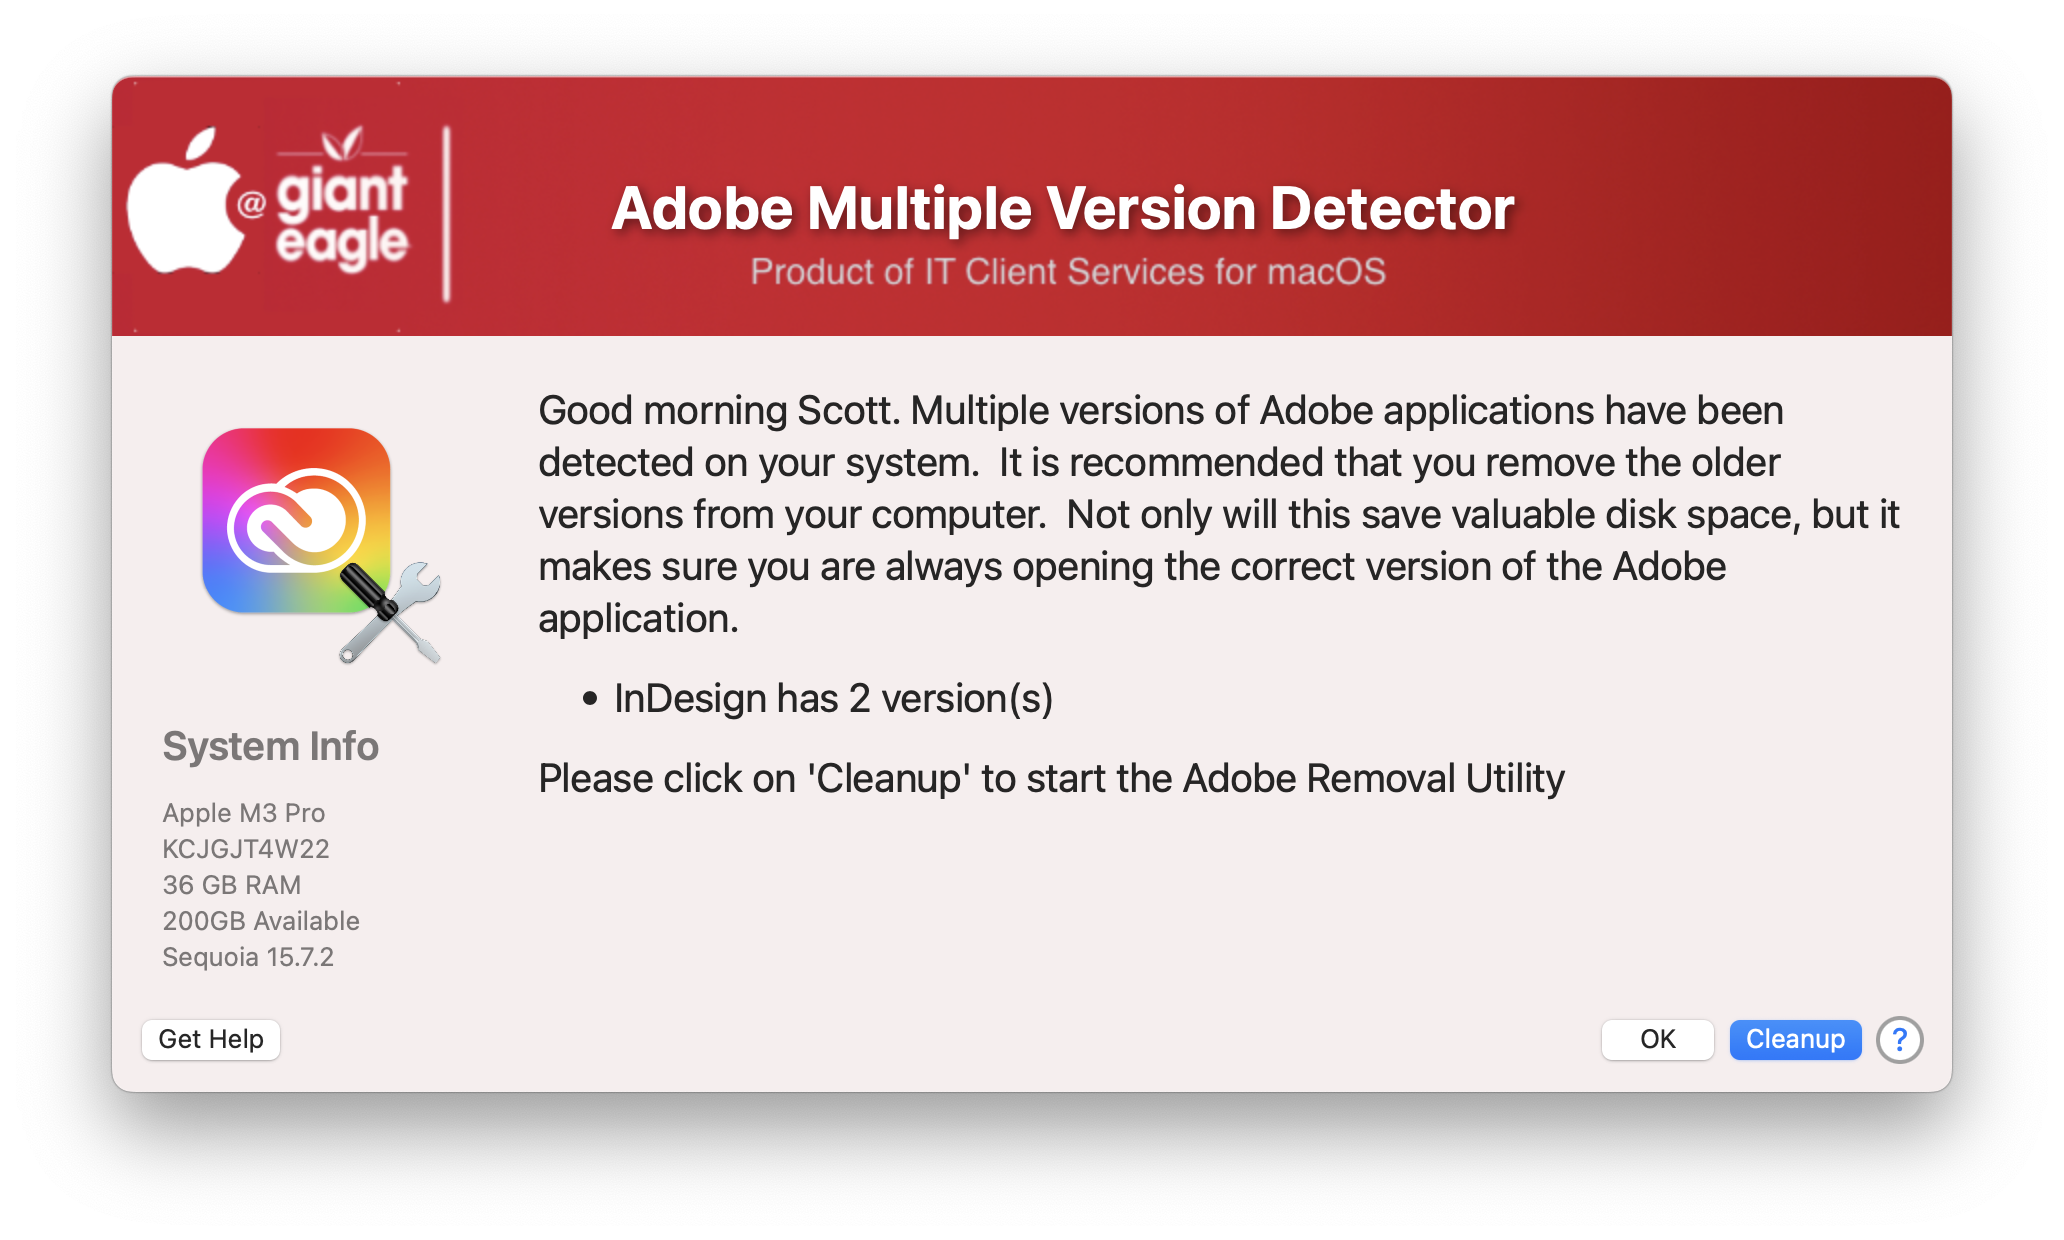
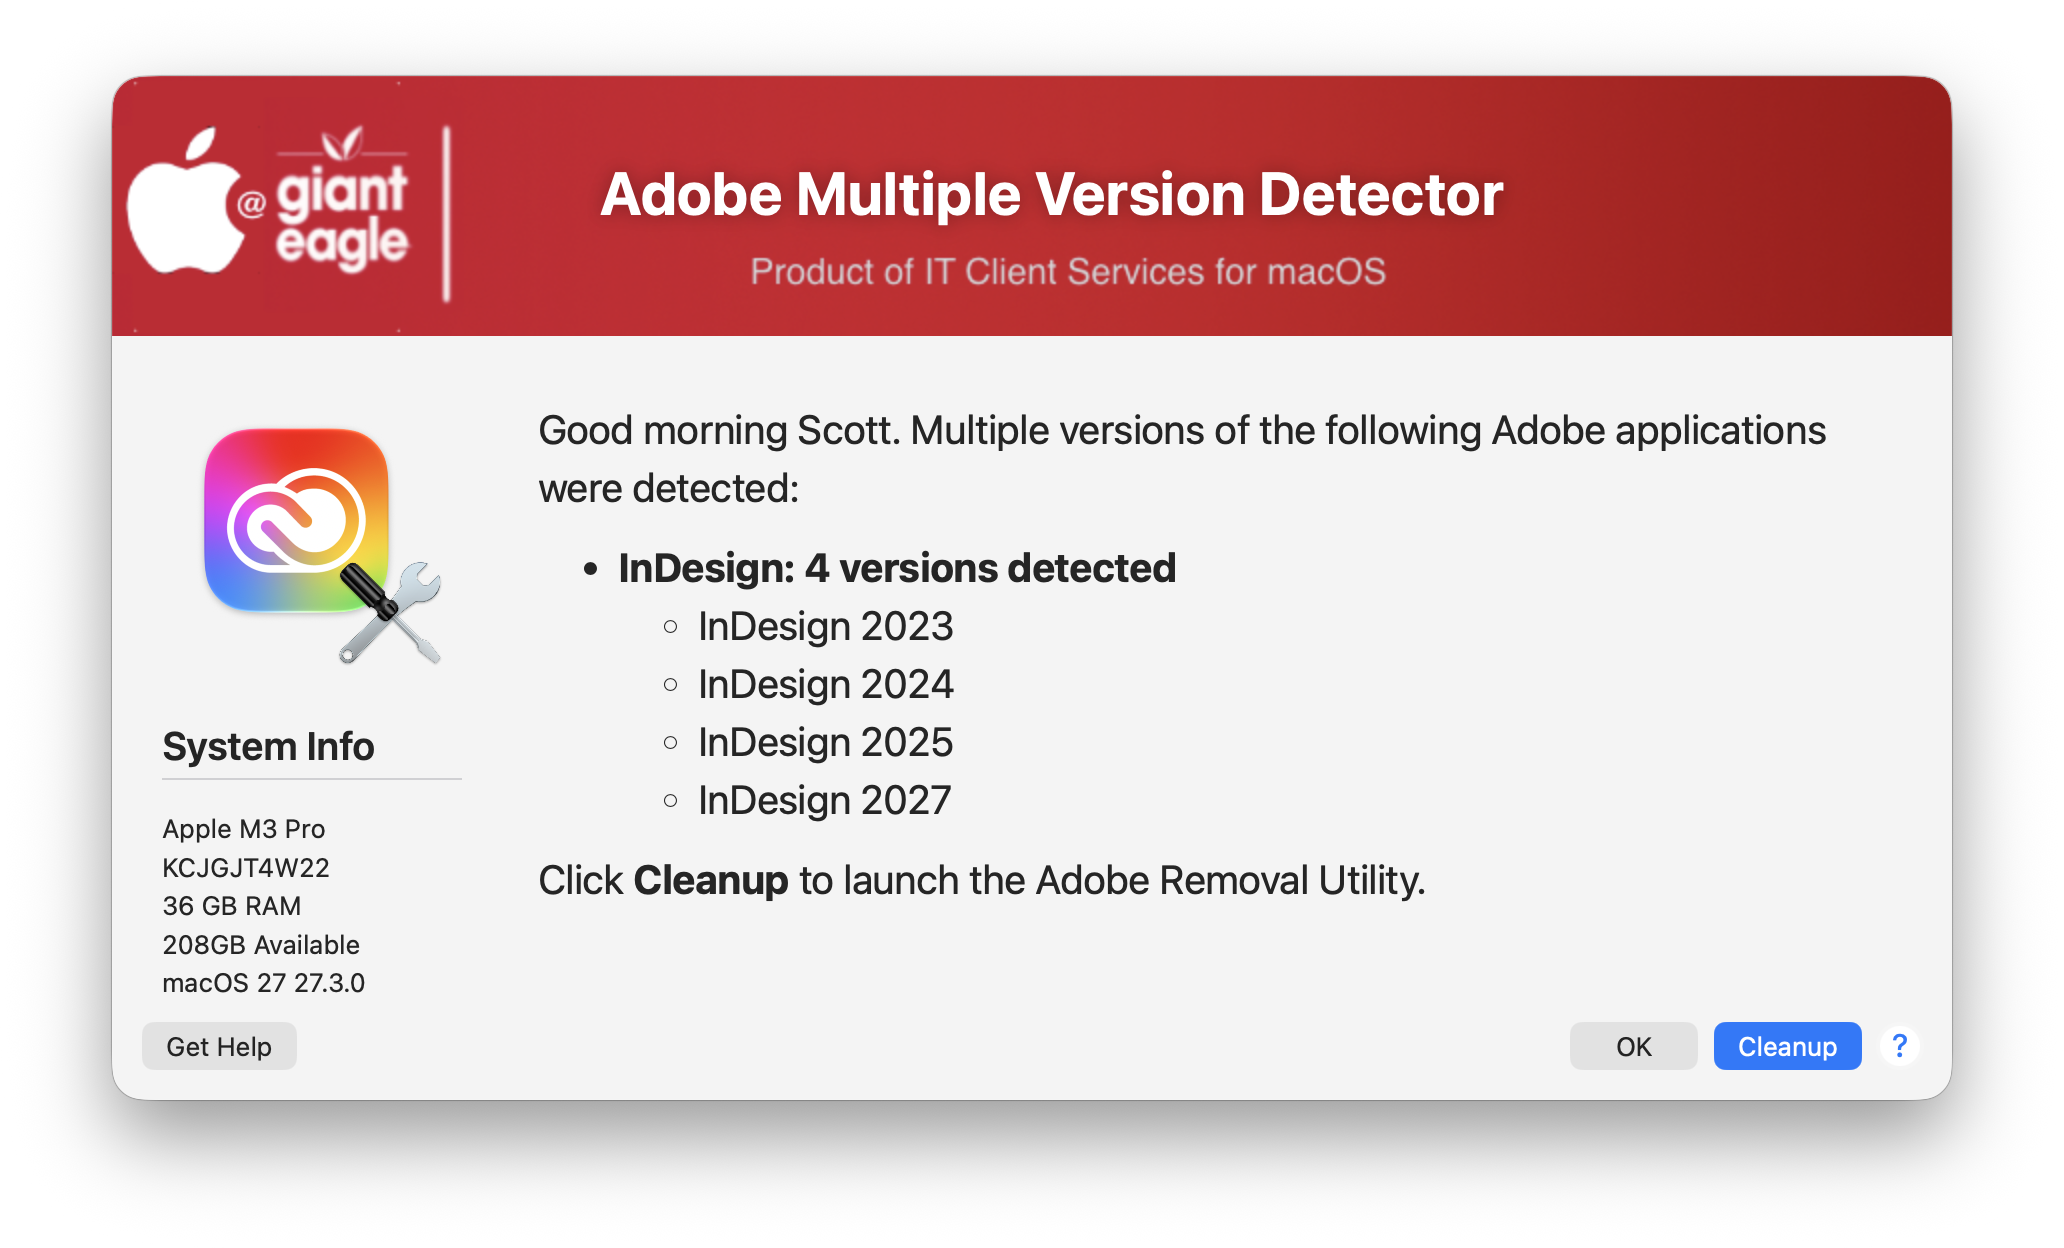
Detect multiple versions of Adobe apps

diff --git a/AdobeDetectMultiple/README.md b/AdobeDetectMultiple/README.md
@@ -14,4 +14,11 @@ The is designed to work in tandem with a removal script that a user can call via
 ||       Fixed variable names in the defaults file section
 | 2.0 | Updated SD Version requirements to 3.1.0
 ||       Added ability to set subtitle, color, and padding from defaults file
+| 2.1 | Improved Adobe application detection using native zsh globbing
+||       Added detailed reporting of installed versions for duplicate applications
+||       Improved SwiftDialog prerequisite validation and error handling
+||       Improved Jamf policy validation for support files and Adobe Cleanup
+||       Removed unused temporary-file and jq handling
+||       Improved function variable scoping and exit-code propagation
+||       Removed legacy Jamf script-parameter handling
 
